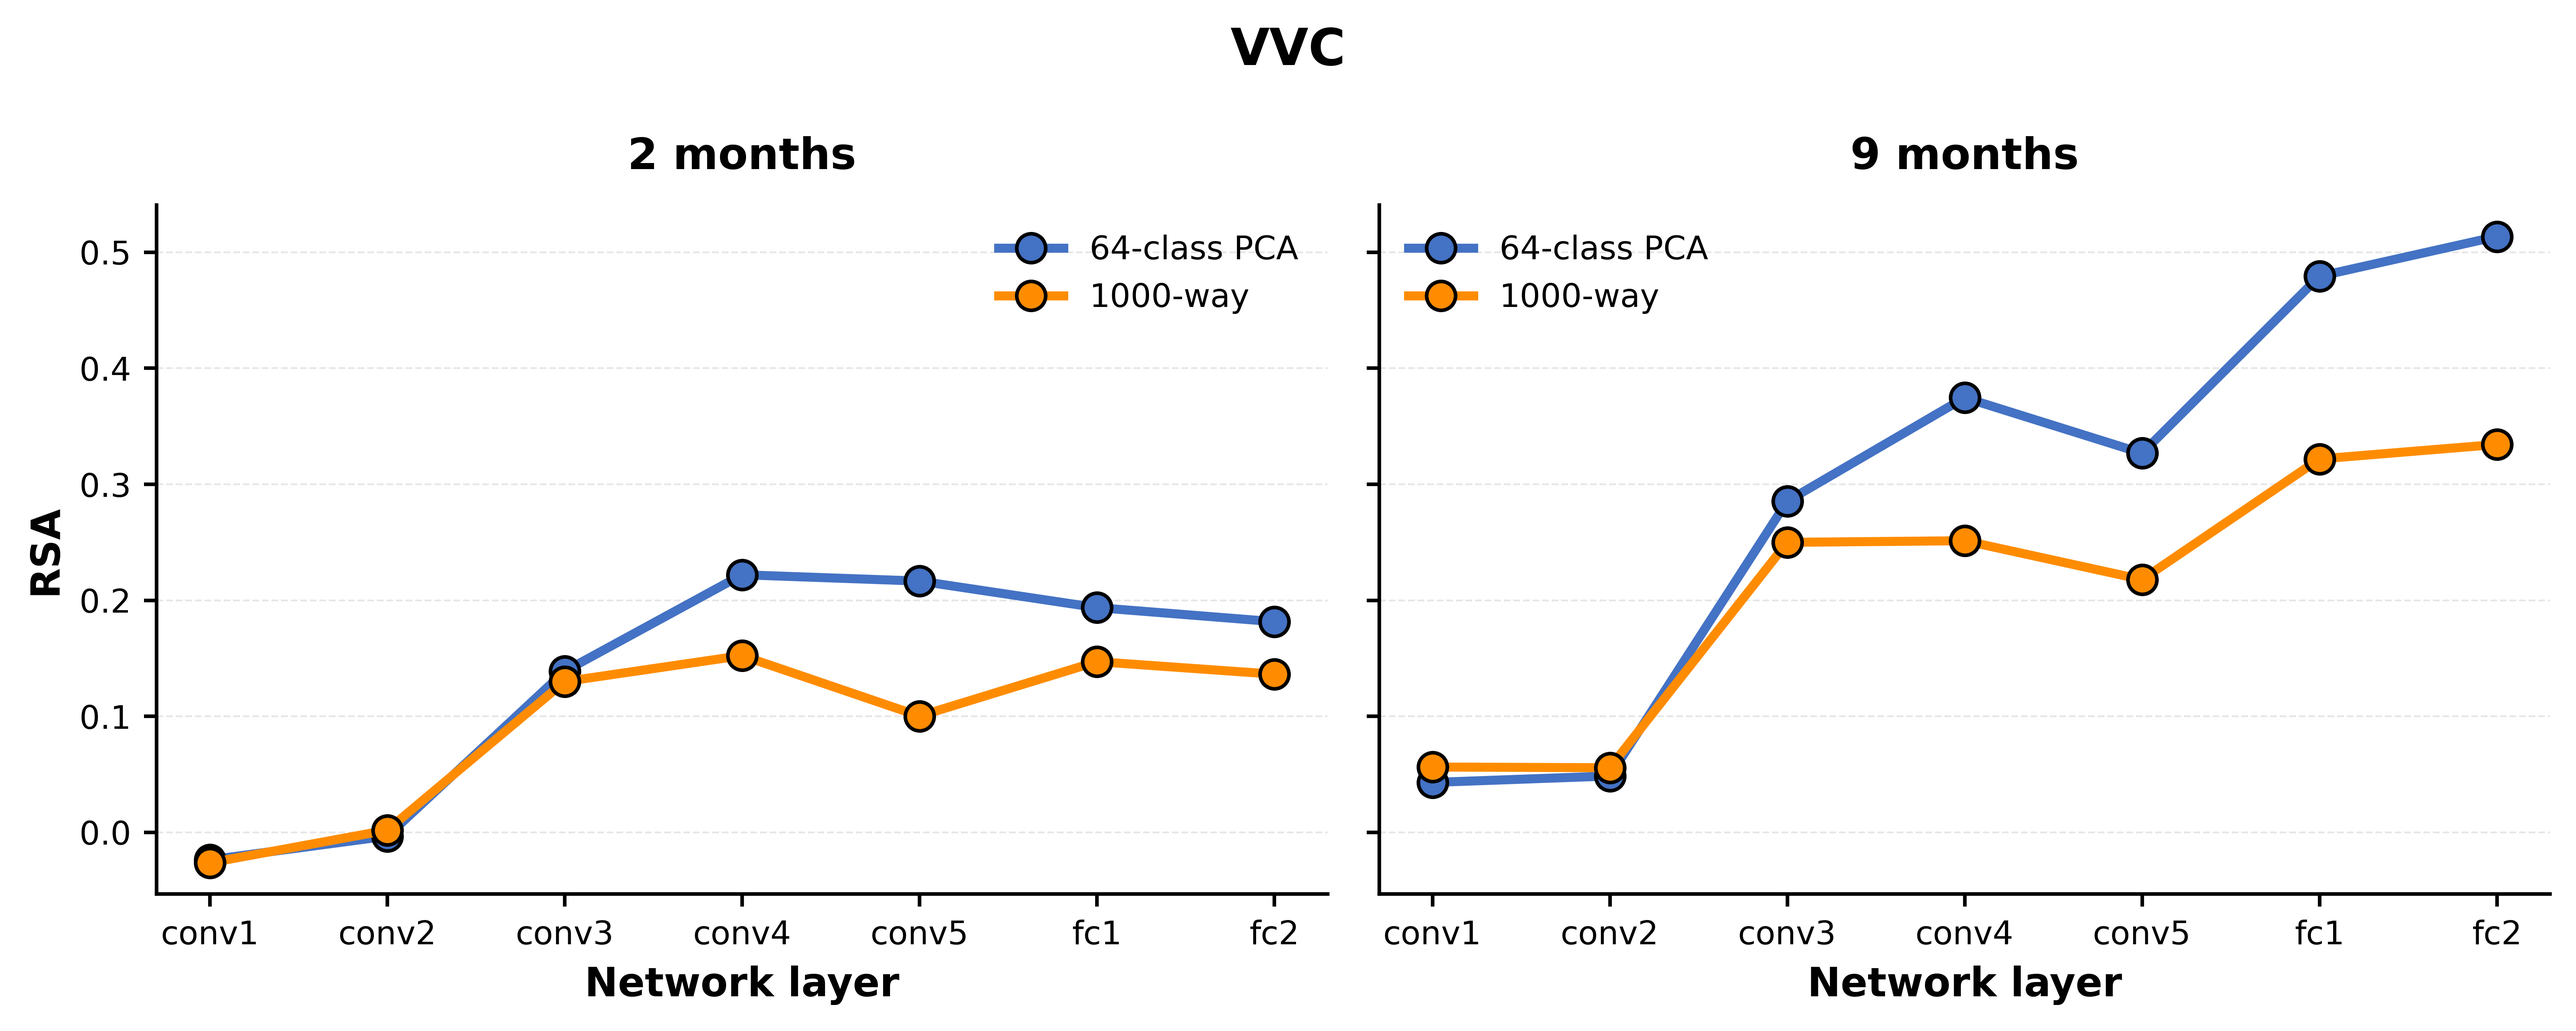
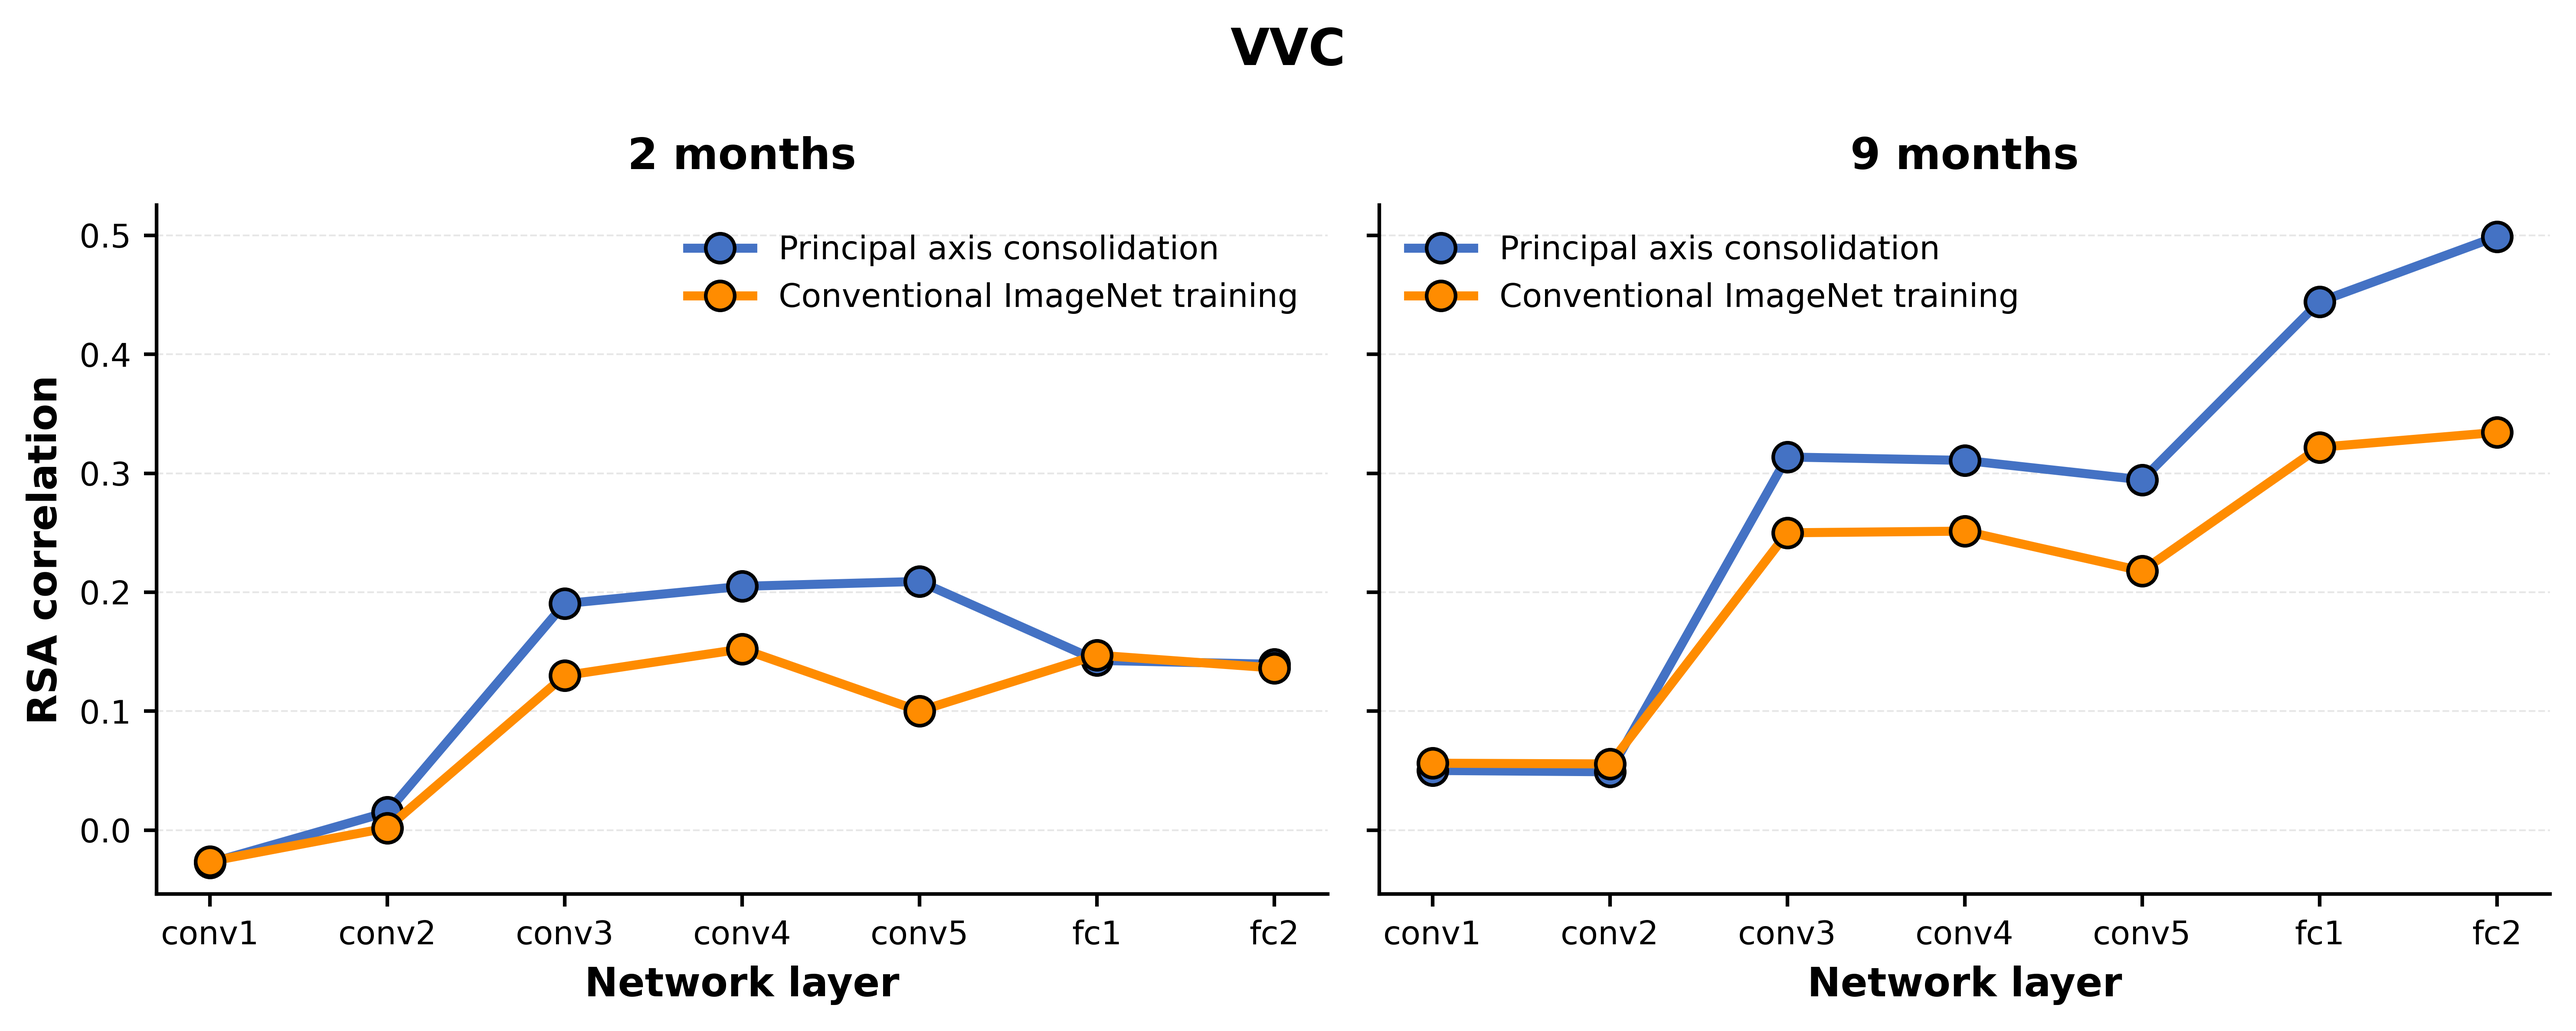
Add random pics + updated plotter

diff --git a/plotters/cusack/layer-progression.py b/plotters/cusack/layer-progression.py
@@ -12,7 +12,7 @@ import numpy as np
 CSV_1K = "logs/cusack_1k.csv"
 CSV_PCA = "logs/cusack_pca.csv"
 REGION = "vvc"  # Change this to plot different regions: "evc", "vvc", "V1", etc.
-PCA_N_CLASSES = 64  # PCA model to compare
+PCA_N_CLASSES = 4  # PCA model to compare
 LAYERS = ["conv1", "conv2", "conv3", "conv4", "conv5", "fc1", "fc2"]
 AGE_GROUPS = ["2month", "9month"]
 
@@ -72,10 +72,10 @@ for idx, age_group in enumerate(AGE_GROUPS):
     x_pos = np.arange(len(LAYERS))
     ax.plot(x_pos, layer_scores_pca, color=blue, linewidth=2.5, 
             marker='o', markersize=8, markeredgecolor='black', 
-            markeredgewidth=1.0, label=f'{PCA_N_CLASSES}-class PCA')
+            markeredgewidth=1.0, label='Principal axis consolidation')
     ax.plot(x_pos, layer_scores_1k, color=orange, linewidth=2.5, 
             marker='o', markersize=8, markeredgecolor='black', 
-            markeredgewidth=1.0, label='1000-way')
+            markeredgewidth=1.0, label='Conventional ImageNet training')
     
     # Add legend
     ax.legend(loc='best', fontsize=9, frameon=False)
@@ -86,7 +86,7 @@ for idx, age_group in enumerate(AGE_GROUPS):
     ax.set_xlabel("Network layer", fontsize=11, fontweight='bold')
     
     if idx == 0:
-        ax.set_ylabel("RSA", fontsize=11, fontweight='bold')
+        ax.set_ylabel("RSA correlation", fontsize=11, fontweight='bold')
     
     # Title formatting
     age_label = age_group.replace('month', ' months')

diff --git a/scripts/coarsegrain/make_pca_classes.py b/scripts/coarsegrain/make_pca_classes.py
@@ -4,9 +4,9 @@ import pandas as pd
 from sklearn.decomposition import PCA
 from sklearn.preprocessing import StandardScaler
 
-FEATURES_PATH = "/data/apassi1/layer_activations/ImageNet/layer11.npz"
-LABELS_FOLDER = "pca_labels_scattering11"  # Directory name for saving labels
-N_BITS = 6  # Number of PCA components
+FEATURES_PATH = "datasets/obj_cls/imagenet/features_dreamsim.npz"
+LABELS_FOLDER = "pca_labels_dreamsim"  # Directory name for saving labels
+N_BITS = 8  # Number of PCA components
 
 def main():
     # Load data
@@ -20,7 +20,7 @@ def main():
     image_names = [os.path.basename(str(name)) for name in image_names]
 
     # Detect feature type
-    feature_keys = {'fc2': True, 'clip_features': True, 'features': True}
+    feature_keys = {'fc2': True, 'clip_features': True, 'features': True, 'dreamsim_features': True}
     for key in feature_keys:
         if key in data_dict:
             feature_array = data_dict[key]
